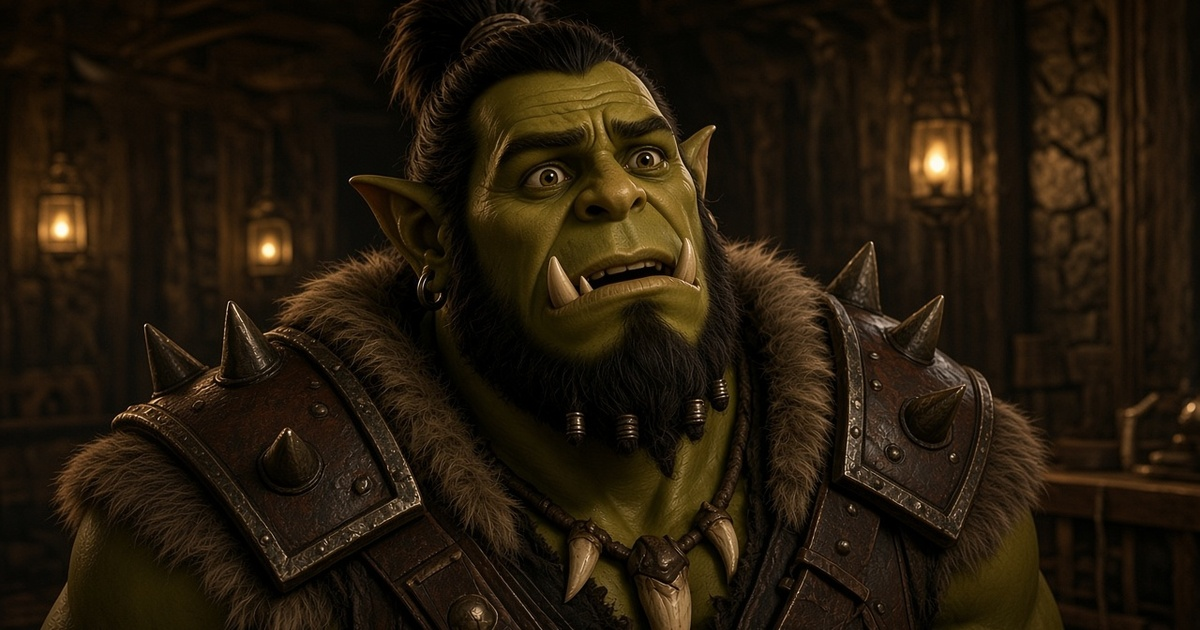
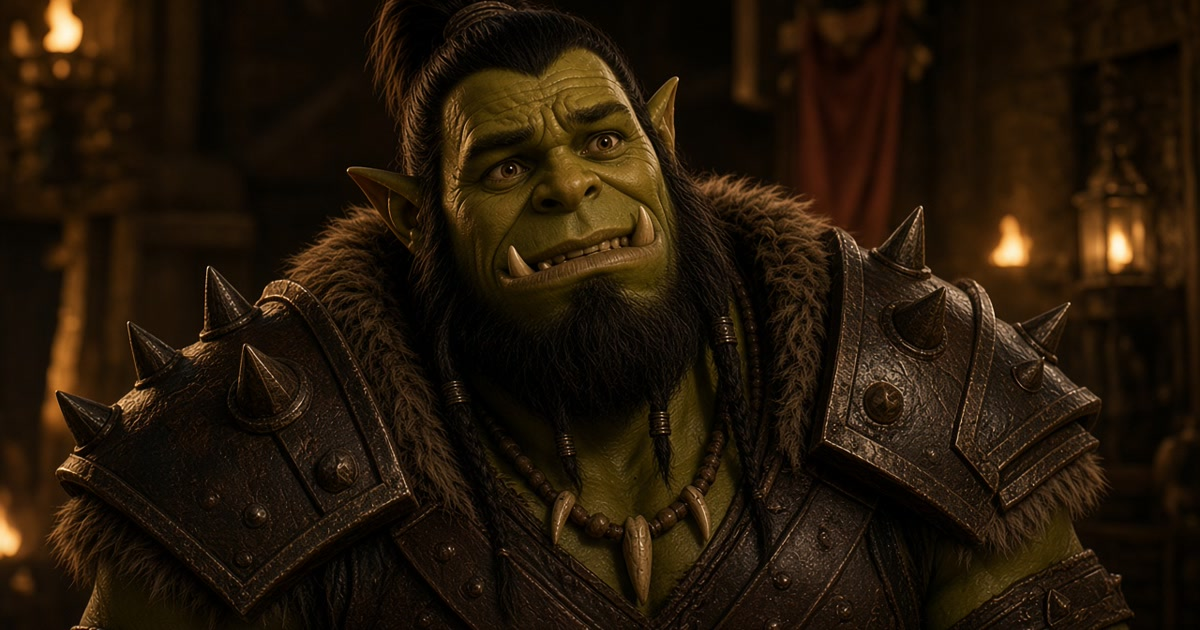
Reshoot Damn as an impressed silent reaction.
He leans back, lifts an eyebrow, and nods.

diff --git a/scripts/imagine-video.ts b/scripts/imagine-video.ts
@@ -24,6 +24,7 @@ const DURATIONS: Record<string, number> = {
   annoyed: 6,
   celebrate: 6,
   congratulations: 6,
+  damn: 6,
   "something-good": 6,
   "start-camera": 6,
   wink: 8,
@@ -55,7 +56,7 @@ const PROMPTS: Record<string, string> = {
   dance:
     "The orc dances, swaying and stepping, arms moving to the groove, joyful grin holding. Locked camera.",
   damn:
-    "The orc leans back a little, impressed, a silent damn on his face, a small respectful nod. Locked camera.",
+    "He starts looking aside. Then he leans back, one eyebrow lifts, and his mouth shapes a silent damn. A small impressed nod follows. No shouting. Locked camera.",
   doit:
     "The orc grins warmly, gives an encouraging thumbs-up, and a small you-got-this nod. Locked camera.",
   doubt:
